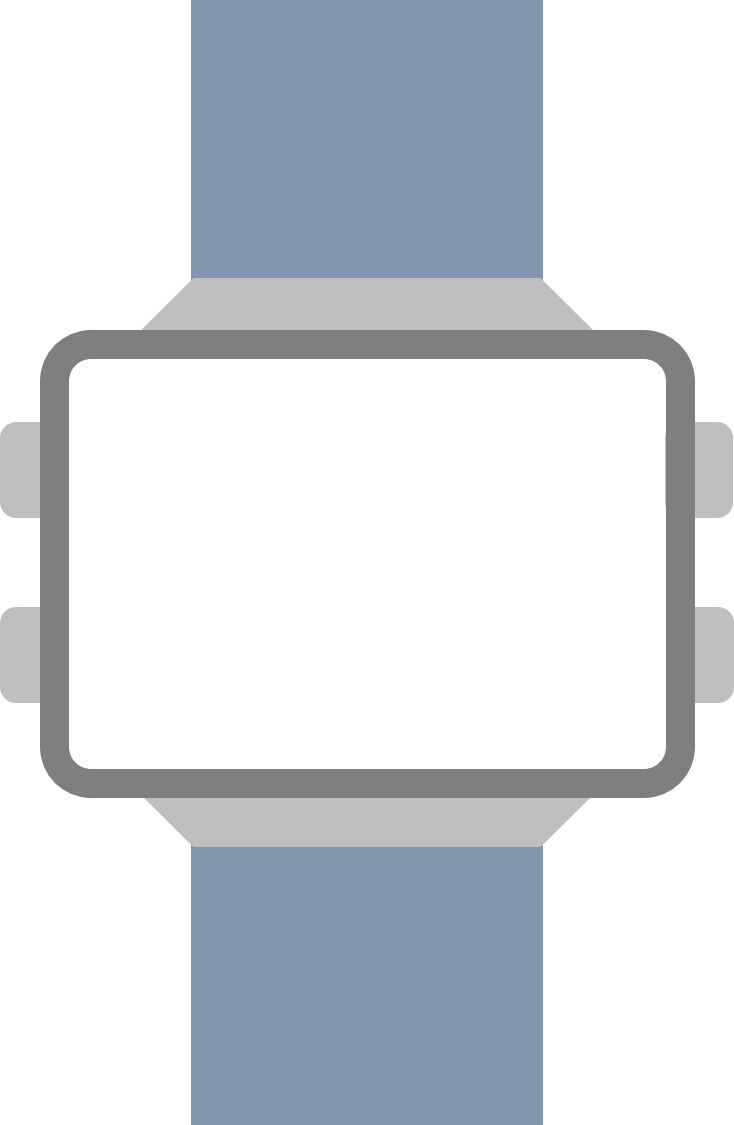
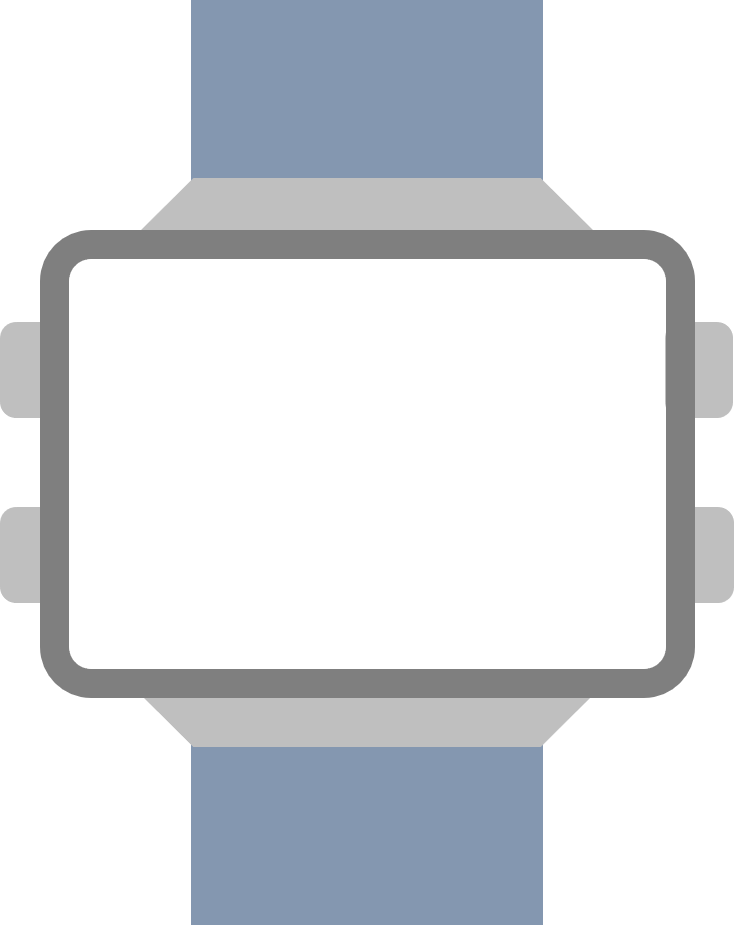
v21.28

diff --git a/src/main/java/clock/ModeManager.java b/src/main/java/clock/ModeManager.java
@@ -170,10 +170,10 @@ public class ModeManager {
         if (isSwapMode) {
             data = deactivateMode();
             g.setFont(top);
-            g.drawString(data[0], 100, 488);
-            g.drawString(data[1], 100, 688);
-            g.drawString("->", 570, 488);
-            g.drawString("->", 570, 688);
+            g.drawString(data[0], 100, 388);
+            g.drawString(data[1], 100, 588);
+            g.drawString("->", 570, 388);
+            g.drawString("->", 570, 588);
         }
         else if (curMode == 2)// game
             game.paint(g);
@@ -199,11 +199,11 @@ public class ModeManager {
             }
 //            System.out.println(data[0] + "\n" + data[1] + "\n" + data[2]);
             g.setFont(top);
-            g.drawString(data[0], 100, 488);
+            g.drawString(data[0], 100, 388);
             g.setFont(main);
-            g.drawString(data[1], 95, 700);
+            g.drawString(data[1], 95, 600);
             g.setFont(sub);
-            g.drawString(data[2], 540, 700);
+            g.drawString(data[2], 540, 600);
         }
     }
 

diff --git a/src/main/java/clock/Worldtime.java b/src/main/java/clock/Worldtime.java
@@ -31,8 +31,6 @@ public class Worldtime implements Mode{
             return new String[] {"WORLD-" + city[curCity], String.format("%02d", worldClock.get(Calendar.HOUR_OF_DAY)) + ":" + String.format("%02d", worldClock.get(Calendar.MINUTE)), ":" + String.format("%02d", worldClock.get(Calendar.SECOND))};
     }
 
-    /*public String[] paint() { // {"STOPWATCH", "시:분:초"} 형식으로 리턴해주면 됨
-    }*/
 
     public void changeCity() {
         // TODO implement here
@@ -58,9 +56,9 @@ public class Worldtime implements Mode{
             worldClock.add(Calendar.HOUR_OF_DAY, 1);
     }
 
-    public void update(Calendar curTime){ //mode manager에서 update시 호출, 한국 시간 가져옴
+    public void update(Calendar curTime){ // get korea time
         GMT9 = (Calendar)curTime.clone();
-    } // ModeManager에서 update
+    } // updated by modemanager
 
     @Override
     public void QPressed(boolean Longpress) {

diff --git a/src/main/java/clock/Game.java b/src/main/java/clock/Game.java
@@ -62,10 +62,10 @@ public class Game extends JPanel implements Mode, Runnable {
                 hurdleManager.draw(g);
                 dinosaur.draw(g);
                 g.setColor(Color.BLACK);
-                g.drawString("HI " + dinosaur.score, 500, 420);
+                g.drawString("HI " + dinosaur.score, 500, 320);
                 if (gameState == GAME_OVER_STATE){
-                    g.drawImage(gameOverButtonImage, 275, 530, null);
-                    g.drawImage(replayButtonImage, 357, 550, null);
+                    g.drawImage(gameOverButtonImage, 275, 430, null);
+                    g.drawImage(replayButtonImage, 357, 450, null);
                 }
                 break;
         }

diff --git a/src/main/java/clock/Watch.java b/src/main/java/clock/Watch.java
@@ -11,7 +11,7 @@ import util.Resource;
 
 public class Watch extends JFrame{
     public static final int SCREEN_WIDTH = 735;
-    public static final int SCREEN_HEIGHT = 1135;
+    public static final int SCREEN_HEIGHT = 935;
 
     private Thread timeThread;
 
@@ -19,7 +19,7 @@ public class Watch extends JFrame{
 
     public Watch(){
         super("Watch");
-        Dimension dim = new Dimension(735, 1135);
+        Dimension dim = new Dimension(SCREEN_WIDTH, SCREEN_HEIGHT);
 
         setSize(SCREEN_WIDTH, SCREEN_HEIGHT);
         setLocation(200, 200);

diff --git a/src/main/java/clock/Dinosaur.java b/src/main/java/clock/Dinosaur.java
@@ -11,7 +11,7 @@ import util.Animation;
 import util.Resource;
 
 public class Dinosaur {
-    public static final int LAND_POSY = 630;
+    public static final int LAND_POSY = 530;
     public static final float GRAVITY = 0.4f;
 
     private static final int NORMAL_RUN = 0;

diff --git a/src/main/java/clock/Background.java b/src/main/java/clock/Background.java
@@ -10,7 +10,7 @@ import java.util.Random;
 import util.Resource;
 
 public class Background {
-    public static final int LAND_POSY = 653;
+    public static final int LAND_POSY = 553;
 
     private List<ImageBackground> listBackground;
     private BufferedImage land1;

diff --git a/src/main/java/clock/Cactus.java b/src/main/java/clock/Cactus.java
@@ -6,7 +6,7 @@ import java.awt.Rectangle;
 import java.awt.image.BufferedImage;
 
 public class Cactus {
-    public static final int Y_LAND = 675;
+    public static final int Y_LAND = 575;
 
     private int CactusposX;
     private int width;
